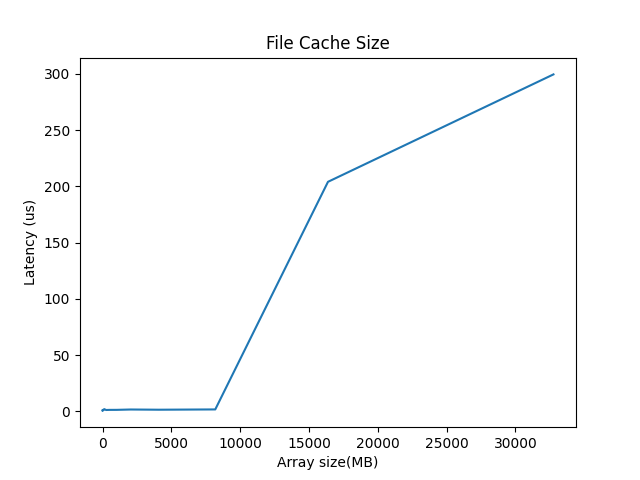
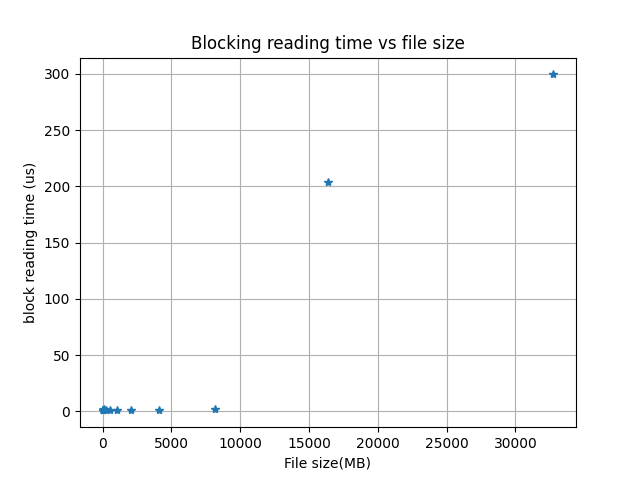
finish nfs and seq and rand

diff --git a/filesystem/sequencial-random.c b/filesystem/sequencial-random.c
@@ -39,82 +39,94 @@ uint32_t cycles_high1;
 #define FREQ 3.6
 #define CLEAR_CACHE() system("sync; echo 3 > /proc/sys/vm/drop_caches")
 
-void run_test(double* result) {
-    const char* home = getenv("HOME");
-    char filename[100];
-    sprintf(filename, "%s/%s", home, "tmp-files/14");
-
-    int fd;
-    fd = open(filename, O_DIRECT);  // the file size is 16GB
-    if (fd == -1) {
-        printf("Error opening file %s\n", filename);
-    }
-
-    char buf[512];  // block size is 512 bytes
-    // start sequencial testing
-    uint64_t sequencial_clocks = 0;
-    srand(time(NULL));
-    int status;
-    status = lseek(fd, 0, SEEK_SET);
-    if (status == -1) {
-        printf("Error seeking file %s\n", filename);
-        exit(1);
-    }
-    for (int i = 0; i < 1024; ++i) {
-        CLEAR_CACHE();
-        START_MEASUREMENT();
-        // read will automatically seek to the next block
-        status = read(fd, buf, 512);
-        END_MEASUREMENT();
-        if (status == -1) {
-            printf("Error reading file %s\n", filename);
-            exit(1);
+void run_test(double* result_seq, double* result_rand) {
+    for (int i = 0; i < 11; ++i) {
+        char filename[100];
+        sprintf(filename, "%s/%d", "./build/file-read/", i);
+        int fd;
+        fd = open(filename, O_DIRECT);
+        if (fd == -1) {
+            printf("Error opening file %s\n", filename);
         }
-        for (int i = 0; i < 512; ++i) {
-            if (buf[i] != 'a') {
-                printf("Error checking buffer at %d\n", i);
-            }
-        }
-        sequencial_clocks += GET_MEASUREMENT();
-    }
 
-    uint64_t random_clocks = 0;
-    int seek_status;
-    // start random testing
-    for (int i = 0; i < 1024; ++i) {
-        uint64_t offset = rand() * 512;
-        while (offset > (uint64_t)1024 * 1024 * 1024 * 16) {
-            offset = rand() * 512;
-        }
-        CLEAR_CACHE();
-        START_MEASUREMENT();
-        seek_status = lseek(fd, offset, SEEK_SET);
-        status = read(fd, buf, 512);
-        END_MEASUREMENT();
-        if (seek_status == -1) {
+        char buf[512];  // block size is 512 bytes
+                        // start sequencial testing
+        uint64_t sequencial_clocks = 0;
+        srand(time(NULL));
+        int status;
+        // get size of file
+        uint64_t size = lseek(fd, 0, SEEK_END) + 1;
+        if (size == -1) {
             printf("Error seeking file %s\n", filename);
             exit(1);
         }
+        printf("File size: %lu KB\n", size / 1024);
+
+        status = lseek(fd, 0, SEEK_SET);
         if (status == -1) {
-            printf("Error reading file %s\n", filename);
+            printf("Error seeking file %s\n", filename);
             exit(1);
         }
-        for (int i = 0; i < 512; ++i) {
-            if (buf[i] != 'a') {
-                printf("Error checking buffer at %d\n", i);
+        for (int i = 0; i < size / 512; ++i) {
+            CLEAR_CACHE();
+            START_MEASUREMENT();
+            // read will automatically seek to the next block
+            status = read(fd, buf, 512);
+            END_MEASUREMENT();
+            if (status == -1) {
+                printf("Error reading file %s\n", filename);
+                exit(1);
             }
+            for (int j = 0; j < 512; ++j) {
+                if (buf[j] != 'a') {
+                    printf("Error checking buffer at %d\n", j);
+                    exit(1);
+                }
+            }
+            sequencial_clocks += GET_MEASUREMENT();
         }
-        random_clocks += GET_MEASUREMENT();
+
+        uint64_t random_clocks = 0;
+        int seek_status;
+        // start random testing
+        for (int i = 0; i < size / 512; ++i) {
+            uint64_t offset = rand() % size;
+            CLEAR_CACHE();
+            START_MEASUREMENT();
+            seek_status = lseek(fd, offset, SEEK_SET);
+            status = read(fd, buf, 512);
+            END_MEASUREMENT();
+            if (seek_status == -1) {
+                printf("Error seeking file %s\n", filename);
+                exit(1);
+            }
+            if (status == -1) {
+                printf("Error reading file %s\n", filename);
+                exit(1);
+            }
+            for (int j = 0; j < 512; ++j) {
+                if (buf[j] != 'a') {
+                    printf("Error checking buffer at %d\n", j);
+                    exit(1);
+                }
+            }
+            random_clocks += GET_MEASUREMENT();
+        }
+
+        close(fd);
+
+        printf("sequencial_clocks: %lu, random_clocks: %lu\n",
+               sequencial_clocks / (size / 512), random_clocks / (size / 512));
+
+        // transform to us
+        printf(
+            "sequencial time per block: %f us, random time per block: %f us\n",
+            sequencial_clocks / (double)(size / 512.0) / (FREQ * 1e3),
+            random_clocks / (double)(size / 512.0) / (FREQ * 1e3));
+        result_seq[i] =
+            sequencial_clocks / (double)(size / 512.0) / (FREQ * 1e3);
+        result_rand[i] = random_clocks / (double)(size / 512.0) / (FREQ * 1e3);
     }
-
-    close(fd);
-
-    printf("sequencial_clocks: %lu, random_clocks: %lu\n",
-           sequencial_clocks / 1024, random_clocks / 1024);
-
-    // transform to us
-    printf("sequencial time per block: %f us, random time per block: %f us\n",
-           sequencial_clocks / 1024.0 / (FREQ * 1e3), random_clocks / 1024.0 / (FREQ * 1e3));
 }
 
 int main(int argc, char* argv[]) {
@@ -122,7 +134,12 @@ int main(int argc, char* argv[]) {
         printf("You need to be root to run this test\n");
         exit(1);
     }
-    double result[15];
-    run_test(result);
+    double result_seq[11];
+    double result_rand[11];
+    run_test(result_seq, result_rand);
+    FILE* res = fopen("./sequencial-random-res.csv", "w");
+    for (int i = 0; i < 11; ++i) {
+        fprintf(res, "%d, %f, %f\n", i, result_seq[i], result_rand[i]);
+    }
     return 0;
 }

diff --git a/filesystem/nfs.c b/filesystem/nfs.c
@@ -39,70 +39,93 @@ uint32_t cycles_high1;
 #define FREQ 3.6
 #define CLEAR_CACHE() system("sync; echo 3 > /proc/sys/vm/drop_caches")
 
-void run_test(double* result) {
-    const char* home = getenv("HOME");
-    char filename[100];
-    sprintf(filename, "%s/%s", home, "mymnt/14");
-
-    int fd;
-    fd = open(filename, O_DIRECT);  // the file size is 16GB
-    if (fd == -1) {
-        printf("Error opening file %s\n", filename);
-        exit(1);
-    }
-
-    char buf[512];  // block size is 512 bytes
-    // start sequencial testing
-    uint64_t sequencial_clocks = 0;
-    srand(time(NULL));
-    int status;
-    status = lseek(fd, 0, SEEK_SET);
-    if (status == -1) {
-        printf("Error seeking file %s\n", filename);
-        exit(1);
-    }
-    for (int i = 0; i < 1024; ++i) {
-        CLEAR_CACHE();
-        START_MEASUREMENT();
-        // read will automatically seek to the next block
-        status = read(fd, buf, 512);
-        END_MEASUREMENT();
-        if (status == -1) {
-            printf("Error reading file %s\n", filename);
-            exit(1);
+void run_test(double* result_seq, double* result_rand) {
+    for (int i = 0; i < 11; ++i) {
+        char filename[100];
+        sprintf(filename, "%s/%d", "./build/nfs/", i);
+        int fd;
+        fd = open(filename, O_DIRECT);  // the file size is 16GB
+        if (fd == -1) {
+            printf("Error opening file %s\n", filename);
         }
-        sequencial_clocks += GET_MEASUREMENT();
-    }
 
-    uint64_t random_clocks = 0;
-    int seek_status;
-    // start random testing
-    for (int i = 0; i < 1024; ++i) {
-        uint64_t offset = rand() % (1024 * 1024 * 100); // first 100 MB
-        CLEAR_CACHE();
-        START_MEASUREMENT();
-        seek_status = lseek(fd, offset, SEEK_SET);
-        status = read(fd, buf, 512);
-        END_MEASUREMENT();
-        if (seek_status == -1) {
+        char buf[512];  // block size is 512 bytes
+                        // start sequencial testing
+        uint64_t sequencial_clocks = 0;
+        srand(time(NULL));
+        int status;
+        uint64_t size = lseek(fd, 0, SEEK_END) + 1;
+        if (size == -1) {
             printf("Error seeking file %s\n", filename);
             exit(1);
         }
+        printf("File size: %lu KB\n", size / 1024);
+
+        status = lseek(fd, 0, SEEK_SET);
         if (status == -1) {
-            printf("Error reading file %s\n", filename);
+            printf("Error seeking file %s\n", filename);
             exit(1);
         }
-        random_clocks += GET_MEASUREMENT();
+        for (int i = 0; i < size / 512; ++i) {
+            CLEAR_CACHE();
+            START_MEASUREMENT();
+            // read will automatically seek to the next block
+            status = read(fd, buf, 512);
+            END_MEASUREMENT();
+            if (status == -1) {
+                printf("Error reading file %s\n", filename);
+                exit(1);
+            }
+            for (int j = 0; j < 512; ++j) {
+                if (buf[j] != 'a') {
+                    printf("Error checking buffer at %d\n", j);
+                    exit(1);
+                }
+            }
+            sequencial_clocks += GET_MEASUREMENT();
+        }
+
+        uint64_t random_clocks = 0;
+        int seek_status;
+        // start random testing
+        for (int i = 0; i < size / 512; ++i) {
+            uint64_t offset = rand() % size;
+            CLEAR_CACHE();
+            START_MEASUREMENT();
+            seek_status = lseek(fd, offset, SEEK_SET);
+            status = read(fd, buf, 512);
+            END_MEASUREMENT();
+            if (seek_status == -1) {
+                printf("Error seeking file %s\n", filename);
+                exit(1);
+            }
+            if (status == -1) {
+                printf("Error reading file %s\n", filename);
+                exit(1);
+            }
+            for (int j = 0; j < 512; ++j) {
+                if (buf[j] != 'a') {
+                    printf("Error checking buffer at %d\n", j);
+                    exit(1);
+                }
+            }
+            random_clocks += GET_MEASUREMENT();
+        }
+
+        close(fd);
+
+        printf("sequencial_clocks: %lu, random_clocks: %lu\n",
+               sequencial_clocks / (size / 512), random_clocks / (size / 512));
+
+        // transform to us
+        printf(
+            "sequencial time per block: %f us, random time per block: %f us\n",
+            sequencial_clocks / (double)(size / 512.0) / (FREQ * 1e3),
+            random_clocks / (double)(size / 512.0) / (FREQ * 1e3));
+        result_seq[i] =
+            sequencial_clocks / (double)(size / 512.0) / (FREQ * 1e3);
+        result_rand[i] = random_clocks / (double)(size / 512.0) / (FREQ * 1e3);
     }
-
-    close(fd);
-
-    printf("sequencial_clocks: %lu, random_clocks: %lu\n",
-           sequencial_clocks / 1024, random_clocks / 1024);
-
-    // transform to us
-    printf("sequencial time per block: %f us, random time per block: %f us\n",
-           sequencial_clocks / 1024.0 / (FREQ * 1e3), random_clocks / 1024.0 / (FREQ * 1e3));
 }
 
 int main(int argc, char* argv[]) {
@@ -110,7 +133,12 @@ int main(int argc, char* argv[]) {
         printf("You need to be root to run this test\n");
         exit(1);
     }
-    double result[15];
-    run_test(result);
+    double result_seq[11];
+    double result_rand[11];
+    run_test(result_seq, result_rand);
+    FILE* res = fopen("./sequencial-random-res.csv", "w");
+    for (int i = 0; i < 11; ++i) {
+        fprintf(res, "%d, %f, %f\n", i, result_seq[i], result_rand[i]);
+    }
     return 0;
-}
+    }

diff --git a/filesystem/sequencial-random-plot.py b/filesystem/sequencial-random-plot.py
@@ -1,0 +1,18 @@
+import csv
+from matplotlib import pyplot as plt
+
+if __name__ == '__main__':
+    # read results
+    with open("./sequencial-random-res.csv", "r") as f:
+        reader = csv.reader(f)
+        results = list(reader)
+        x = [int(row[0]) for row in results]
+        seq = [float(row[1]) for row in results]
+        rand = [float(row[2]) for row in results]
+        plt.plot(x, seq, label="sequencial")
+        plt.plot(x, rand, label="random")
+        plt.legend(["sequencial", "random"])
+        plt.title("Sequencial and random read time vs file size")
+        plt.xlabel('log(File size(KB))')
+        plt.ylabel('Block read time(us)')
+        plt.savefig("./sequencial-random.png")

diff --git a/filesystem/file-cache-plot.py b/filesystem/file-cache-plot.py
@@ -8,8 +8,9 @@ if __name__ == '__main__':
         results = list(reader)
         x = [(2 ** int(row[0])) for row in results]
         y = [float(row[1]) for row in results]
-        plt.plot(x, y)
-        plt.title("File Cache Size")
-        plt.xlabel('Array size(MB)')
-        plt.ylabel('Latency (us)')
+        plt.plot(x, y, '*')
+        plt.grid()
+        plt.title("Blocking reading time vs file size")
+        plt.xlabel('File size(MB)')
+        plt.ylabel('block reading time (us)')
         plt.savefig("./file-cache.png")

diff --git a/filesystem/file-read-preprocess.py b/filesystem/file-read-preprocess.py
@@ -1,0 +1,12 @@
+import os
+
+if __name__ == '__main__':
+    basepath = "./build/file-read/"
+    if not os.path.exists(basepath):
+        os.mkdir(basepath)
+
+    for i in range(0, 11):
+        if not os.path.exists(basepath + "/{}".format(i)):
+            f = open(basepath + "/{}".format(i), "w")
+            f.write("a" * (2 ** i) * 1024)
+            f.close()
